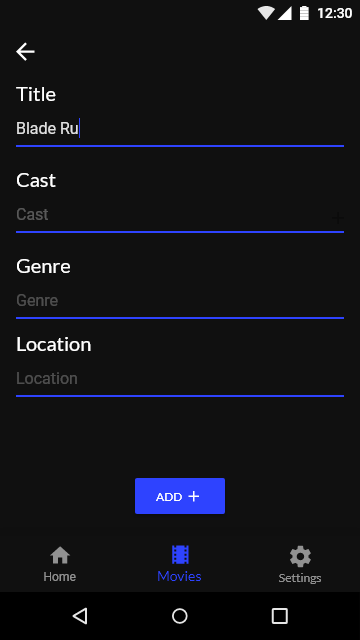
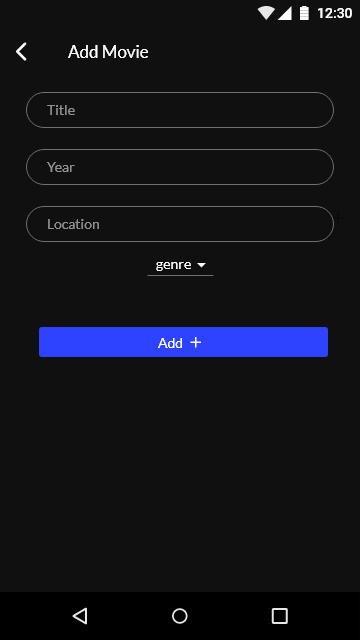
updated ss folder and README

diff --git a/README.md b/README.md
@@ -5,17 +5,19 @@ An app that provides a way to manage all DVD/VHS/BluRay movies. Sole purpose is 
 ## Features
 
 - Suggests movie of the day to watch 
-- Stores movies with complete info including cast, genre, title, year, ect. 
-- Ability to search movies based on a single specification such as members of cast, genre, title.
-- Demonstrates recommended movies based on recently watched.
+- Stores movies in database with complete info including cast, genre, title, year, poster url, etc. 
+- Ability to search movies based on a single specification such as members of cast or title.
 - Demonstrates a list of recently "checked out" movies.
 - Shows movies by genre in the movies screen.
 - Clean/modern UI
 
 ## Screenshots
 
-Adobe XD prototype.
+Prototype.
 
-<img src="ss/Home.png" height="400px" />
 <img src="ss/Movies.png" height="400px" />
+<img src="ss/Movie-info.png" height="400px" />
+<img src="ss/Movie-info-2.png" height="400px" />
+<img src="ss/Search.png" height="400px" />
+<img src="ss/Add.png" height="400px" />
 
